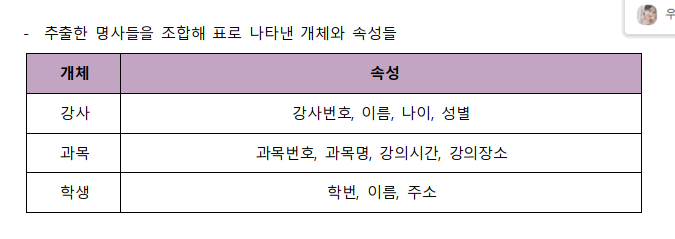
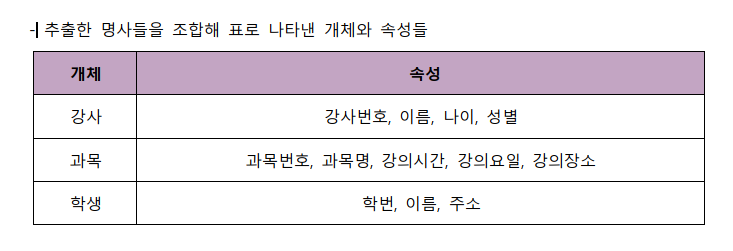
update 데이터 모델링 실습

diff --git a/_posts/2023-05-06-data-modeling-ex.md b/_posts/2023-05-06-data-modeling-ex.md
@@ -12,7 +12,7 @@ tags: [Workbench, ERD]
 
 ### 요구 사항 명세서
 
-1. 학적과에는 각 과목을 강의하는 강사, 등록한 학생, 강의 시간 및 장소 등의 데이터가 유지된다.
+1. 학적과에는 각 과목을 강의하는 강사, 등록한 학생과 강의 시간, 요일, 장소 등의 데이터가 유지된다.
 
 2. 한 강사가 여러 개의 과목을 강의할 수 있으며, 각 과목과 학생 간에는 학점이 부여된다.
 
@@ -32,7 +32,7 @@ tags: [Workbench, ERD]
 
    추출한 명사들을 **조합해 개체와 속성을 작성**합니다.
 
-   - 요구사항 1번에서 **강사**, **과목**, **학생**, **강의 시간**, **강의 장소**를 얻을 수 있습니다.
+   - 요구사항 1번에서 **강사**, **과목**, **학생**, **강의 시간**, **강의 요일**, **강의 장소**를 얻을 수 있습니다.
 
    - 요구사항 3번에서 **과목 엔티티**의 속성으로 **과목 번호**, **과목명** 등을 얻을 수 있습니다.
 
@@ -55,6 +55,10 @@ tags: [Workbench, ERD]
      > M : N 관계는 중간 엔티티를 두어 표현합니다.  
      > 중간 엔티티에 학점 속성을 부여합니다.
 
+   - 강의 시간, 강의 요일, 강의 장소를 강의 정보 개체로 묶어주겠습니다.
+
+     > 강의시간, 강의요일을 기본키로 강의 정보 개체를 만듭니다.
+
    ![관계](/assets/img/logical-ex-01.png){: .w-80}
 
 3. 작성된 데이터를 바탕으로 **ER 다이어그램을 작성**합니다.
@@ -69,3 +73,86 @@ tags: [Workbench, ERD]
 ---
 
 ### 논리적 데이터 모델링
+
+1. 먼저 5가지 과정을 순서대로 적용하여 ER 다이어그램을 **릴레이션 스키마로 변환**합니다.
+
+   - **모든 개체를 릴레이션으로 변환**
+
+     E-R 다이어그램의 각 개체를 하나의 릴레이션으로 변환합니다.
+
+     - 개체의 이름을 릴레이션의 이름으로 하고, 개체가 가진 속성도 릴레이션의 속성으로 그대로 변환합니다.
+
+     - 개체가 가지고 있는 속성이 복합 속성인 경우, 복합 속성을 구성하는 단순 속성만 릴레이션의 속성으로 변환합니다.
+
+     - 개체가 가지고 있는 키 속성을 릴레이션의 기본 키로 변환합니다.
+
+     ![relation-schema-ex-01](/assets/img/relation-schema-ex-01.png){: .w-80}
+
+   - **N : M 관계는 릴레이션을 변환**
+
+     개념적 데이터 모델링 단계에서 생햑했다면 <u>N : M 관계는 중간 릴레이션을 생성해서 관계를 표현</u>합니다.
+
+     > 위 단계에서 학점부여 관계를 중간 개체로 생성한 것을 말합니다.
+
+     - 관계를 맺고 있는 릴레이션들의 기본 키를 외래키로 가져와 기본 키로 사용합니다.
+       (필요 시 별도의 기본 키 지정 가능)
+
+     ![relation-schema-ex-02](/assets/img/relation-schema-ex-02.png){: .w-80}
+
+   - **1 : N 관계는 외래 키로 표현**
+
+     <u>1 : N 관계는 릴레이션으로 변환하지 않고 외래 키로만 표현</u>합니다.
+
+     - 일반적인 1 : N 관계는 외래 키로 표현합니다.
+
+     - 약한 개체가 참여하는 1 : N 관계는 외래 키를 포함하여 기본 키로 지정합니다.
+
+       > 약한 걔체란?
+       > 다른 개체의 존재여부에 의존하는 개체
+
+     ![relation-schema-ex-03](/assets/img/relation-schema-ex-03.png){: .w-80}
+
+   - **1 : 1 관계는 외래 키로 표현**
+
+     - 일반적인 1 : 1 관계는 외래 키를 주고 받습니다.
+
+     - 한 개체만 필수적으로 참여할 경우 해당 개체의 릴레이션만 외래 키를 받습니다.
+
+     - 모든 개체가 필수적으로 참여할 경우 릴레이션을 하나로 합쳐줍니다.
+
+   - **다중 값 속성은 릴레이션으로 변환**
+
+     불필요한 중복 저장 문제를 해결하는 과정입니다.
+
+     - 다중 값 속성과 함께 그 속성을 가지고 있던 개체 릴레이션의 기본 키를 외래 키로 가져와 새로운 릴레이션에 포함시킵니다.
+
+     - 새로운 릴레이션의 기본 키는 다중 값 속성과 외래 키를 조합하여 지정합니다.
+
+2. 작성한 릴레이션 스키마를 **테이블 명세서로 변환**합니다.
+
+   속성의 **데이터 타입**, **길이**, **Null 값 허용 여부**, **기본 값**, **제약 조건** 등을 세부적으로 결정합니다.
+
+   ![relation-schema-ex-04](/assets/img/relation-schema-ex-04.png){: .w-80}
+
+---
+
+### 데이터베이스 정규화
+
+**데이터베이스 정규화**란 데이터베이스의 설계를 재구성하는 과정입니다.
+
+정규화를 통해 불필요한 데이터를 삭제하거나 **이상현상을 방지**할 수 있습니다.
+
+- **수정 이상** : 반복된 데이터 중에 일부만 수정하면 데이터 불일치 발생
+- **삽입 이상** : 불필요한 정보 함께 저장하지 않으면 어떤 정보 저장 불가
+- **삭제 이상** : 유용한 정보 함께 삭제하지 않고는 어떤 정보 삭제 불가
+
+릴레이션 스키마를 작성한 이후 테이블 명세서로 변환하기 전 데이터의 중복을 최소화 하기위해 정규화 과정을 거칩니다.
+
+정규화는 1차 정규화(1NF), 2차 정규화(2NF), 3차 정규화(3NF), BCNF, 4차 정규화(4NF), 5차 정규화(5NF)로 나누어집니다.
+
+실무에서는 주로 3NF 형태를 사용합니다.
+
+- **1NF**
+- **2NF**
+- **3NF**
+- **BCNF**
